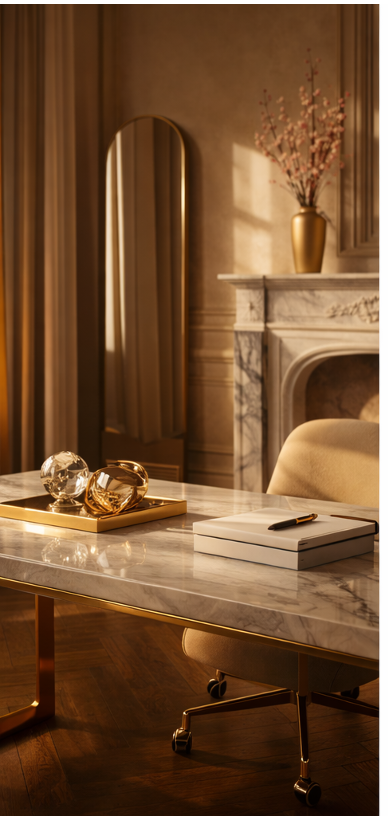
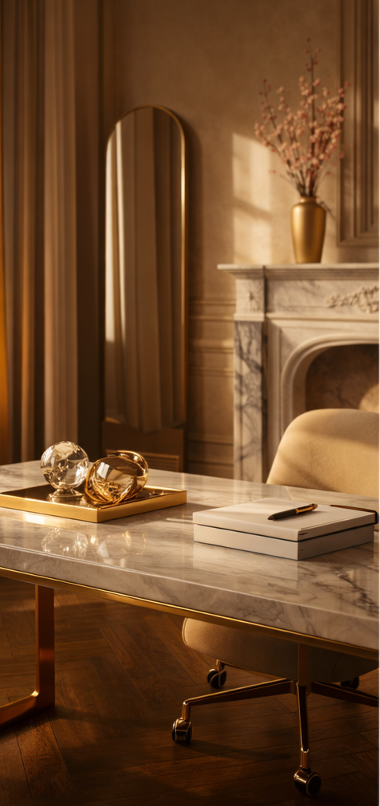
fix: adjust image aspect ratio and layout for text alignment
Change image aspect ratio to 4/5, expand image width to 5 columns,
center align image and text for better balance.

diff --git a/components/about.tsx b/components/about.tsx
@@ -107,9 +107,9 @@ export function About() {
             Por qué existe TLD
           </h3>
 
-          <div className="grid items-start gap-10 lg:grid-cols-12 lg:gap-14">
-            {/* Image - 4 of 12 cols */}
-            <div className="relative aspect-[3/4] overflow-hidden lg:col-span-4">
+          <div className="grid items-center gap-10 lg:grid-cols-12 lg:gap-14">
+            {/* Image - 5 of 12 cols */}
+            <div className="relative aspect-[4/5] overflow-hidden lg:col-span-5">
               <Image
                 src="/images/why-tld.png"
                 alt="Espacio de trabajo elegante"
@@ -118,8 +118,8 @@ export function About() {
               />
             </div>
 
-            {/* Content - 8 of 12 cols */}
-            <div className="flex flex-col gap-8 lg:col-span-8">
+            {/* Content - 7 of 12 cols */}
+            <div className="flex flex-col gap-8 lg:col-span-7">
               {/* El problema */}
               <div>
                 <p className="mb-3 text-[12px] font-medium uppercase tracking-[0.2em] text-foreground/50">
